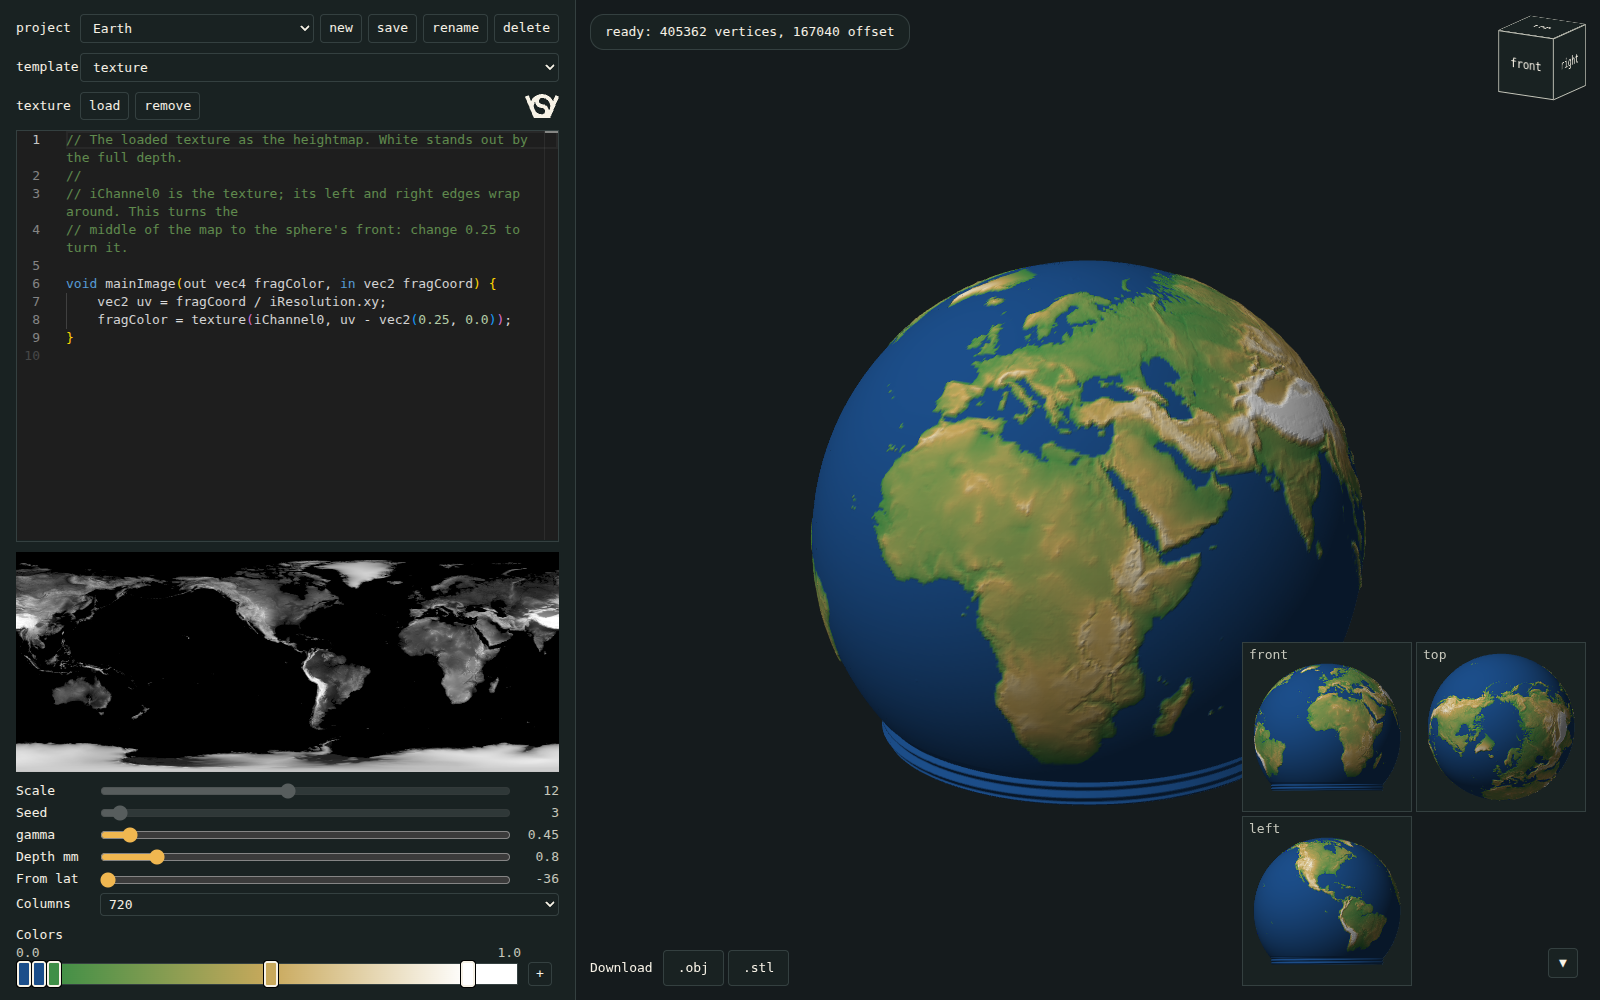
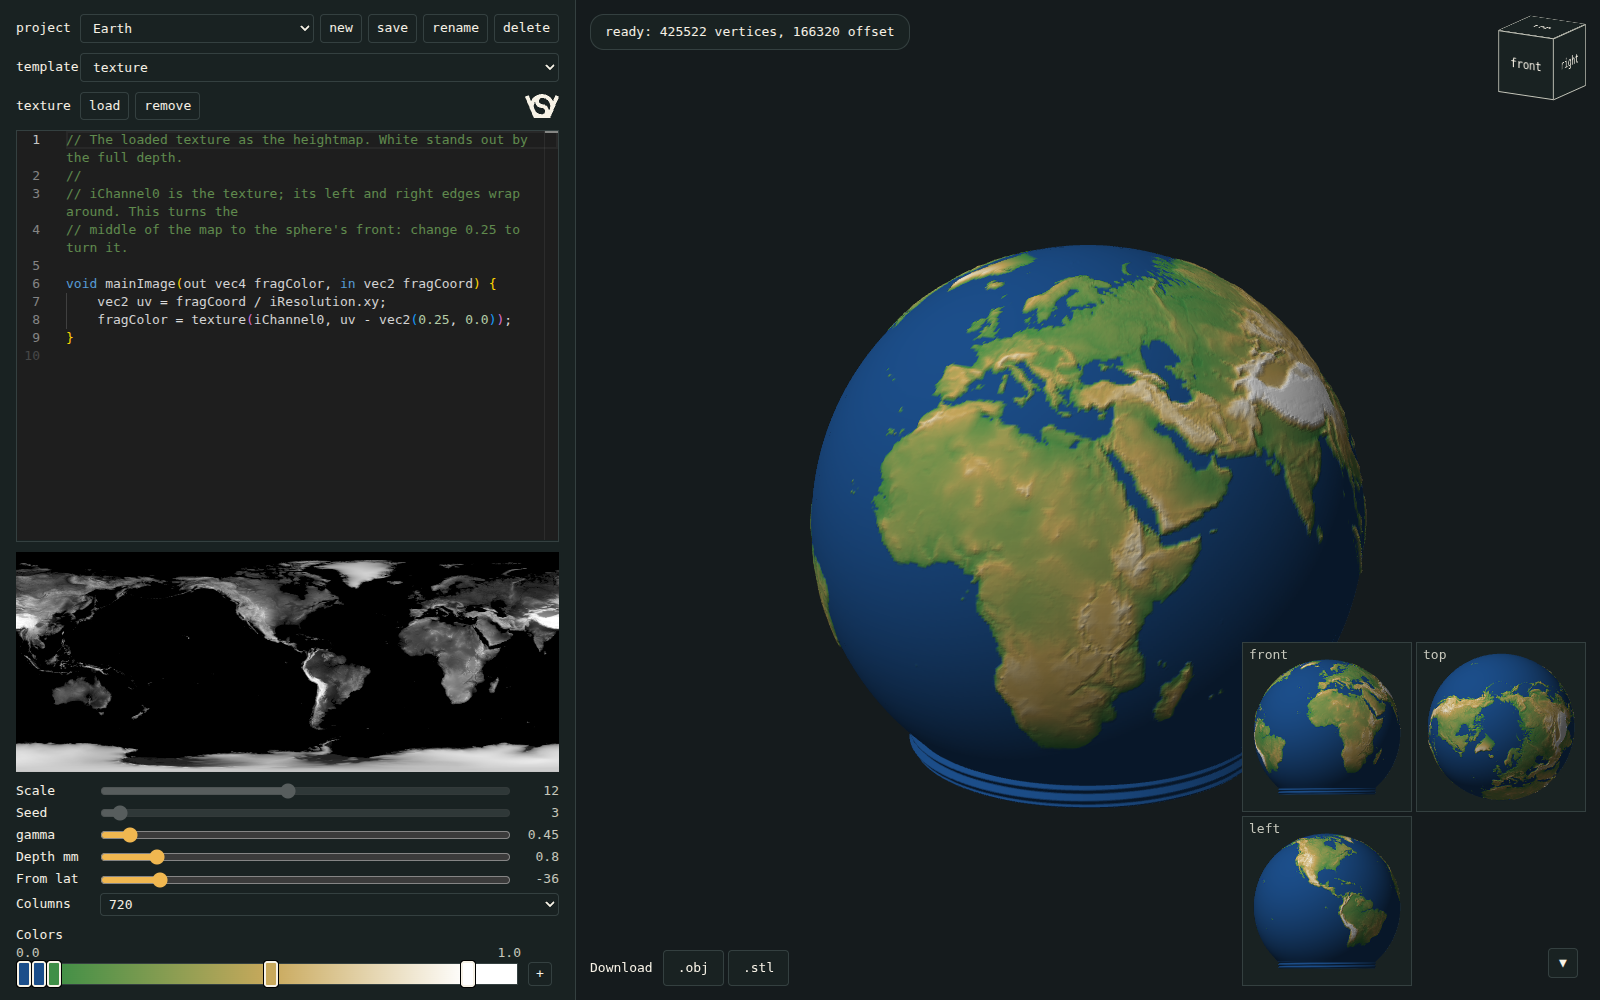
Pucklight sphere webapp: Voronoi, checks and images on V3's sphere
The mesh moved to V3 in 3bcb7b4. This takes along what still came from V2.

- Voronoi: From lat -19.7, V3's fade_bottom, instead of V2's -12.5.
- Checks: the app's downloads ran again against OpenSCAD's V3 sphere.
- Overhang: measured per project. The planets stay at -36: at -43 they
  reach further south, with up to 73 mm2 above 45 degrees instead of 6.
- preview.png and planets.png show V3's neck.

diff --git a/projects/pucklight_sphere/mathematical/readme.md b/projects/pucklight_sphere/mathematical/readme.md
@@ -84,10 +84,28 @@ As `outer_radius()` in the generator, with the map as `surface_height()`: radius
 | From lat | For |
 |---|---|
 | -19.7 | the default, the generator's `fade_bottom` (-19.688): as its formulas |
-| -36 | the planets, saved for V2's neck: a map should reach the neck, or Earth loses most of its south |
-| -43 | the slider's lowest; V3's sphere starts at -45 |
+| -36 | the planets: Earth keeps most of its south, little overhang, see below |
+| -43 | the slider's lowest; V3's sphere starts at -45. More of the south, more overhang |
 
 Colour follows the movement: a point that stays gets the colour of 0.0, also the neck and the inside.
+
+## Overhang
+
+The lower half of the mesh, 720 columns, depth 0.8 mm: its steepest face in degrees, and its area steeper than 45, of about 11400 mm2. The smooth sphere's steepest is 44.8.
+
+| Project | From -36 | From -43 |
+|---|---|---|
+| Mercury | 56.7, 6 mm2 | 61.7, 73 mm2 |
+| Venus | 55.9, 2 mm2 | 55.9, 4 mm2 |
+| Earth | 56.7, 5 mm2 | 59.2, 16 mm2 |
+| Moon | 45.9, 1 mm2 | 51.3, 19 mm2 |
+| Pluto | 50.5, 1 mm2 | 63.4, 38 mm2 |
+| Ceres | none | 49.3, 8 mm2 |
+| Mars, Charon, Vesta, Titan | none | none |
+| Voronoi | 62.4, 186 mm2 | 70.2, 398 mm2 |
+
+- Saved: the planets at -36, Voronoi at -19.7, where it has none.
+- More depth makes it worse; what a print tolerates is not tested.
 
 ## Columns
 
@@ -102,9 +120,9 @@ Colour follows the movement: a point that stays gets the colour of 0.0, also the
 | Check | Result |
 |---|---|
 | `test_sphere_mesh.js`: smooth at 64 and 180 columns, `twist` at 180, also from -36 | same points within 0.0001 mm, same faces in the same direction, closed |
-| The generator's `twist` typed as a shader, downloaded, against OpenSCAD's `surface = "twist"` | worst point 0.0013 mm off |
+| The generator's `twist` typed as a shader, downloaded, against OpenSCAD's `surface = "twist"` | worst point 0.0015 mm off |
 | Voronoi, 720 columns, against OpenSCAD's smooth sphere | not one point of the thread, neck or inside moved |
-| Same, read back by Blender | `.stl` and `.obj`: 0 non-manifold edges, 26.0 cm3 (smooth: 22.0), 32 g of PLA by volume |
+| Same, read back by Blender | `.stl` and `.obj`: 0 non-manifold edges, 27.6 cm3 (smooth: 23.1), 34 g of PLA by volume |
 | `.obj` in Blender | vertex colours arrive |
 | A test image with a patch at a known place | where it belongs: not mirrored, not upside down, not on the back |
 | Every project opened in the app | loads as saved, nothing marked unsaved; saving writes the same bytes, so git stays clean |
@@ -113,11 +131,11 @@ Colour follows the movement: a point that stays gets the colour of 0.0, also the
 | Create, read, update, rename, delete, and every other control, in headless Chrome: mouse and typing on the cube, orbit, zoom, stops, picker, buttons and editor; sliders and lists set by script | works, console clean apart from the refused names |
 | Without the internet | a plain text box replaces the editor; the rest works |
 
-Only `test_sphere_mesh.js` ran again on V3's sphere, which differs here in `neck_d` only. The other rows are from V2's.
+All on V3's sphere, which differs here in `neck_d` only, except the API and internet rows: those are from V2's and do not depend on the sphere.
 
 ## Not tested yet
 
-- Not sliced, not printed. Most open: overhang on the lower flank of a wall, and more so below -19.7 (hypothesis: a planet's gentle slopes are fine).
+- Not sliced, not printed. Most open: what the overhang above does to a print (hypothesis: a few mm2 on a planet's slopes are fine).
 - Only on software WebGL in Chrome: no real GPU, no Firefox. One update took 0.2 to 1.6 s there.
 
 ## Not included

diff --git a/projects/pucklight_sphere/planets/readme.md b/projects/pucklight_sphere/planets/readme.md
@@ -48,7 +48,7 @@ Run `python3 make_planet_projects.py [names]`; needs numpy, Pillow and curl. Dow
 - Titan: the lines follow Cassini's radar tracks. Between them is interpolation, so most of what you see is not landscape.
 - Pluto, Charon: the smooth part was never measured.
 - Venus: the gaps are level at the median.
-- The relief starts at -36 and V3's sphere at -45, so the far south is not on any sphere. `From lat` reaches -43; not tried.
+- The relief starts at -36 and V3's sphere at -45, so the far south is not on any sphere. `From lat` reaches -43, with more overhang: `../mathematical/readme.md`, Overhang.
 - Not sliced, not printed.
 
 Sources: NASA and USGS, with GEBCO for Earth's data, Cassini RADAR team and Lorenz et al. 2013 for Titan. Credit them; the data is not under this project's GPL.
